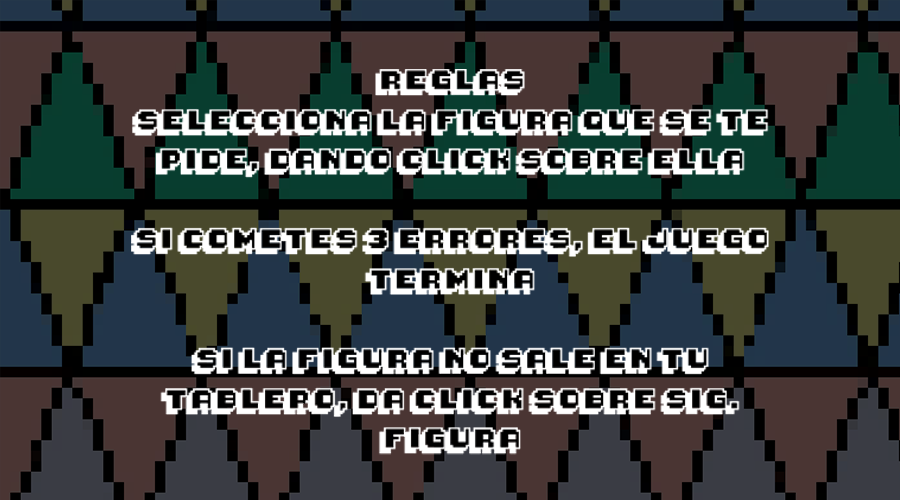
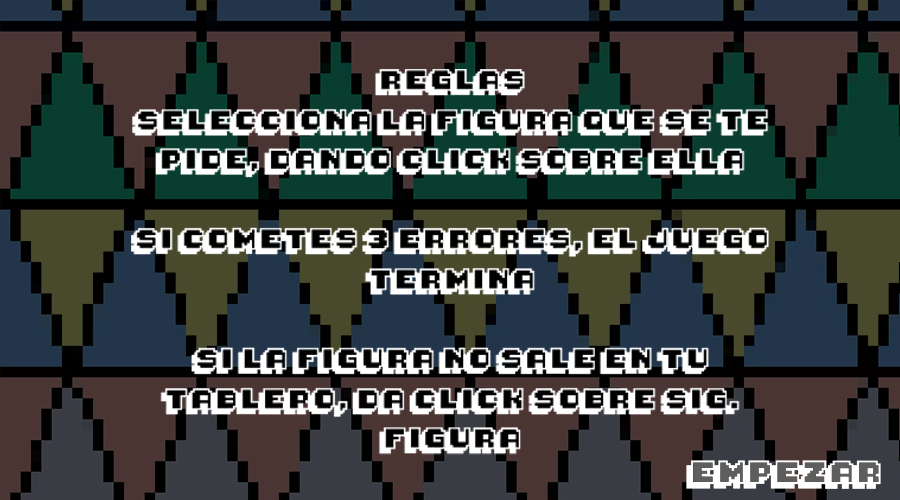
Beta 4.2 complete files

Changed region(s): [[0.7467, 0.9, 0.9956, 0.99]]

diff --git a/Figuras.py b/Figuras.py
@@ -285,9 +285,12 @@ class GameStage:
             if event.type == pygame.QUIT:
                 self.stage = 0
                 self.reset(0)
-            if event.type == pygame.KEYDOWN:
-                if event.key == pygame.K_SPACE:
-                    self.stage = 1
+            if event.type == pygame.MOUSEBUTTONDOWN:
+                self.play_sound(click)
+                if event.button == 1:
+                    mouse_pos = pygame.mouse.get_pos()
+                    if 693 <= mouse_pos[0] <= 878 and 462 <= mouse_pos[1] <= 481:
+                        self.stage = 1
         pygame.display.flip()
 
     #*******************************Main stages***********************************************
